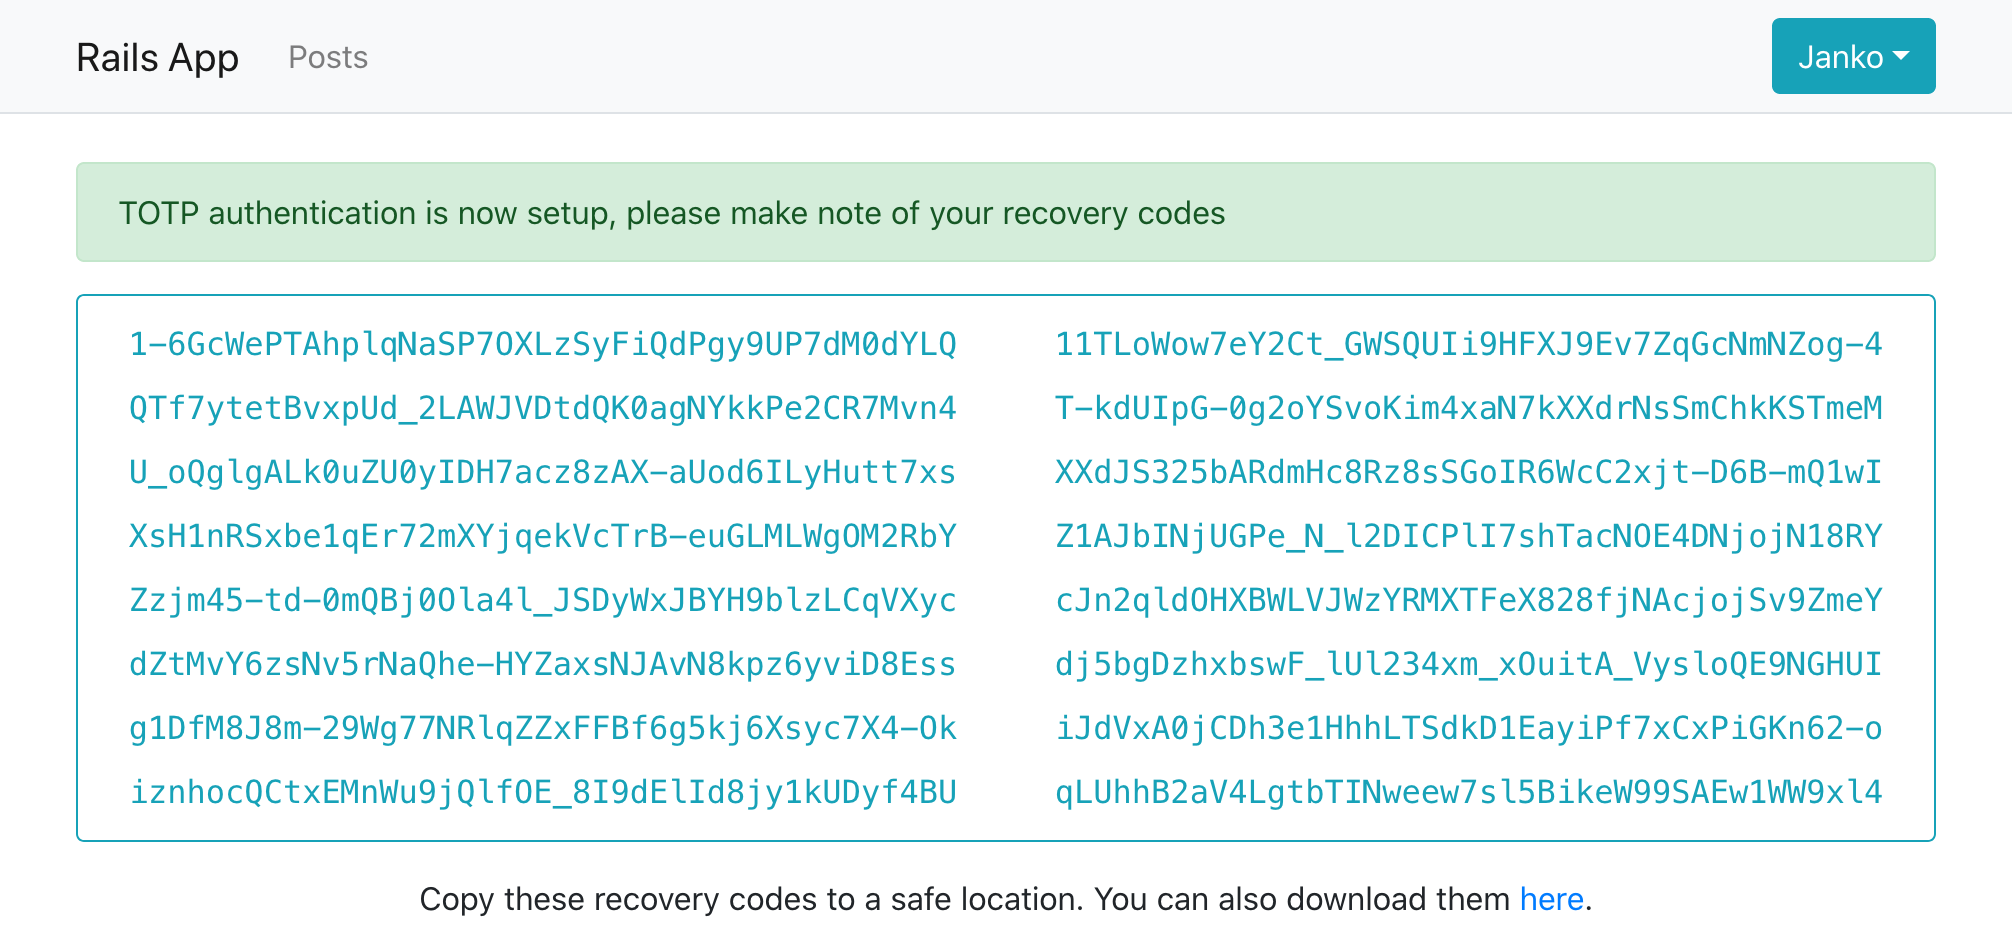
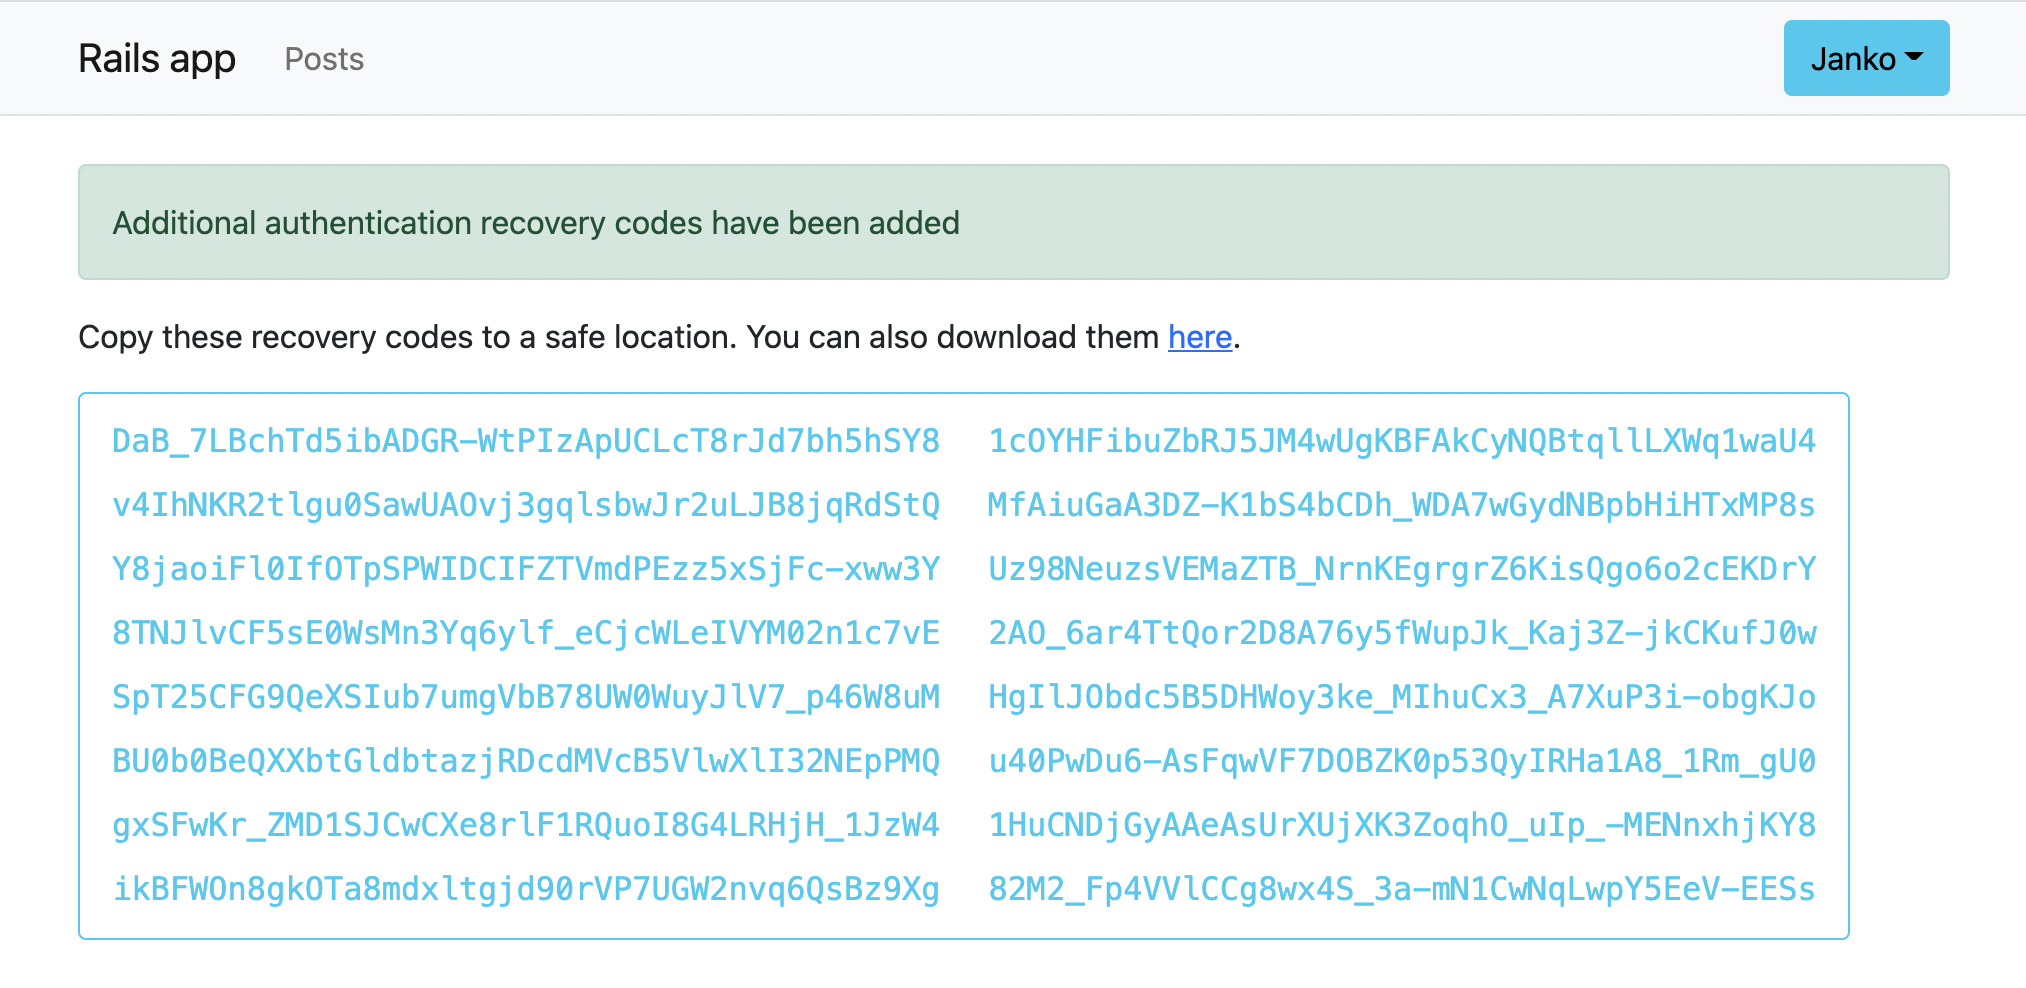
Update for Bootstrap 5

diff --git a/_posts/2020-12-21-adding-multifactor-authentication-in-rails-with-rodauth.md b/_posts/2020-12-21-adding-multifactor-authentication-in-rails-with-rodauth.md
@@ -193,19 +193,21 @@ end
 ```
 ```erb
 <!-- app/views/rodauth/add_recovery_codes.html.erb -->
-<div class="border border-info rounded px-3 py-2">
-  <% rodauth.recovery_codes.each_slice(2) do |code1, code2| %>
-    <div class="row text-info text-center">
-      <div class="col-lg my-1 text-monospace"><%= code1 %></div>
-      <div class="col-lg my-1 text-monospace"><%= code2 %></div>
-    </div>
-  <% end %>
-</div>
+<% if rodauth.recovery_codes.any? %>
+  <p class="my-3">
+    Copy these recovery codes to a safe location.
+    You can also download them <%= link_to "here", download_recovery_codes_path %>.
+  </p>
 
-<p class="my-3 text-center">
-  Copy these recovery codes to a safe location.
-  You can also download them <%= link_to "here", download_recovery_codes_path %>.
-</p>
+  <div class="d-inline-block mb-3 border border-info rounded px-3 py-2">
+    <% rodauth.recovery_codes.each_slice(2) do |code1, code2| %>
+      <div class="row text-info text-left">
+        <div class="col-lg my-1 font-monospace"><%= code1 %></div>
+        <div class="col-lg my-1 font-monospace"><%= code2 %></div>
+      </div>
+    <% end %>
+  </div>
+<% end %>
 
 <!-- Used for filling in missing recovery codes later on -->
 <% if rodauth.can_add_recovery_codes? %>
